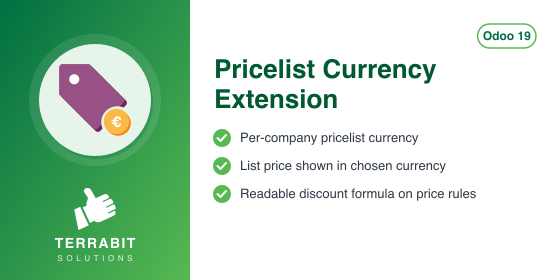
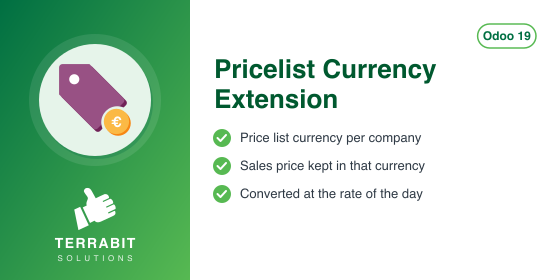
[DOC] 43 modules: Apps descriptions match the code
Apps description audit of 02.11.2026, section B (free modules): each finding
was checked in the code, then readme/DESCRIPTION.md rewritten from what the
module does on 19.0, with a Limitations section where a feature is missing or
incomplete. Summaries and banners that promised the same were aligned.
Version bump and HISTORY entry on each module. No code change.

Assisted-by: Claude Opus 5.5

Changed region(s): [[0.425, 0.6571, 0.85, 0.7143], [0.425, 0.5714, 0.7893, 0.6286], [0.425, 0.4571, 0.7589, 0.5143]]

diff --git a/deltatech_pricelist/static/description/index.html b/deltatech_pricelist/static/description/index.html
@@ -5,7 +5,7 @@
     <span class="d-inline-block rounded-4 p-2 flex-shrink-0 my-2" style="background-color:#ffffff;margin-right:24px;"><img src="icon.png" alt="Pricelist Currency Extension" style="width:80px;height:80px;border:none;"/></span>
     <div class="flex-grow-1 my-2" style="width:320px;min-width:0;margin-right:24px;">
       <h1 class="fw-bold mb-2" style="color:#ffffff;font-size:36px;line-height:1.1;letter-spacing:-0.5px;border:none;">Pricelist Currency Extension</h1>
-      <p class="mb-3" style="font-size:18px;color:#cdeccf;line-height:1.45;">Set a dedicated currency for product list prices</p>
+      <p class="mb-3" style="font-size:18px;color:#cdeccf;line-height:1.45;">Sales prices in a currency of your choice</p>
       <div>
         <span class="d-inline-block rounded-pill fw-bold me-2 mb-2" style="background-color:#ffffff;border:1px solid #ffffff;color:#006F42;padding:6px 14px;font-size:12px;">Odoo 19.0</span>
         <span class="d-inline-block rounded-pill fw-semibold me-2 mb-2" style="border:1px solid #8fd1ad;color:#ffffff;padding:6px 14px;font-size:12px;">Sales</span>
@@ -40,15 +40,39 @@
 <div class="tab-content">
 <div class="tab-pane fade show active py-2" id="tb-panel-overview" style="font-size:16px;line-height:1.65;color:#212529;font-weight:400;">
 <h2 class="fw-bold mb-3" style="border:none;border-left:4px solid #57B952;padding-left:16px;font-size:24px;letter-spacing:-0.3px;line-height:1.2;">Overview</h2>
-<p class="mb-4" style="font-size:16px;line-height:1.65;max-width:780px;">Features:  </p>
+<p class="mb-4" style="font-size:16px;line-height:1.65;max-width:780px;">Lets a company keep the <strong>Sales Price</strong> of its products in a currency other than
+its accounting currency, for example prices in EUR in a company that keeps its
+books in RON. Sales orders and pricelists convert the price to their own currency
+at the rate of the day.</p>
+<p><strong>Price List Currency on the company.</strong> Adds the <strong>Price List Currency</strong> field on
+the company form, under <strong>Currency</strong>. The currency of the product <strong>Sales Price</strong>
+becomes this currency for all the products of the company. Products shared
+between companies use the price list currency of the main company.</p>
+<p><strong>Conversion in pricelists and sales.</strong> When a pricelist or a sales order is in
+another currency, the sales price is converted from the price list currency with
+the standard Odoo currency rates. The <strong>Cost</strong> of products stays in the company
+currency.</p>
+<h2 class="fw-bold mt-4 mb-3" style="border:none;border-left:4px solid #57B952;padding-left:16px;font-size:24px;letter-spacing:-0.3px;line-height:1.2;">Configuration</h2>
+<p>Go to <em>Settings &gt; Users &amp; Companies &gt; Companies</em>, open the company and set
+<strong>Price List Currency</strong>. To keep the sales prices in the company currency, set
+it to the same currency as <strong>Currency</strong>.</p>
+<h2 class="fw-bold mt-4 mb-3" style="border:none;border-left:4px solid #57B952;padding-left:16px;font-size:24px;letter-spacing:-0.3px;line-height:1.2;">Limitations</h2>
 <ul>
-<li>pretul de lista din datele de baza ale produsului poate sa fie in alta
-  moneda</li>
-<li>list price from basic data of the product can be in another currency</li>
+<li>The setting applies to the whole company: all products use the same price list
+  currency; it cannot be chosen per product.</li>
+<li>On installation every company gets EUR as <strong>Price List Currency</strong>. In a company
+  whose currency is not EUR, the existing sales prices are then read as EUR
+  amounts until the field is changed.</li>
 </ul>
 </div>
 <div class="tab-pane fade py-2" id="tb-panel-versions" style="font-size:16px;line-height:1.65;color:#212529;font-weight:400;">
 <h2 class="fw-bold mb-3" style="border:none;border-left:4px solid #57B952;padding-left:16px;font-size:24px;letter-spacing:-0.3px;line-height:1.2;">Versions</h2>
+<h2 class="fw-bold mt-4 mb-3" style="border:none;border-left:4px solid #57B952;padding-left:16px;font-size:24px;letter-spacing:-0.3px;line-height:1.2;">19.0.1.0.3 (2026-11-03)</h2>
+<ul>
+<li>Description rewritten from the code: the price list currency is set per company (default EUR), not per product.</li>
+<li>Documented that on installation all companies get EUR as price list currency.</li>
+<li>Summary and banner corrected; removed the readable discount formula on price rules, which is not active.</li>
+</ul>
 <h2 class="fw-bold mt-4 mb-3" style="border:none;border-left:4px solid #57B952;padding-left:16px;font-size:24px;letter-spacing:-0.3px;line-height:1.2;">19.0.1.0.2 (2026-10-22)</h2>
 <ul>
 <li>Listed on Odoo Apps as <em>Pricelist Currency Extension</em> (was <em>Price List Currency Extension</em>). The technical name <code class="border rounded px-2" style="font-family:ui-monospace,SFMono-Regular,Menlo,Consolas,monospace;font-size:13px;">deltatech_pricelist</code> does not change.</li>
@@ -178,6 +202,26 @@
       </a>
     </div>
     <div class="col-md-3 col-sm-6">
+      <a href="https://apps.odoo.com/apps/modules/19.0/deltatech_import_lines_sale" target="_blank" rel="noopener"
+         class="card h-100 text-decoration-none border" style="color:#212529;">
+        <div class="card-body p-3">
+          <div class="d-flex align-items-center mb-2">
+            <span class="d-inline-block position-relative me-2 flex-shrink-0" style="width:40px;height:40px;">
+              <span class="d-inline-block text-center fw-bold rounded"
+                    style="width:40px;height:40px;line-height:40px;font-size:14px;color:#ffffff;background-color:#006F42;">IL</span>
+              <img src="https://apps.odoocdn.com/apps/assets/19.0/deltatech_import_lines_sale/icon.png" alt="" loading="lazy"
+                   class="position-absolute top-0 start-0 rounded" style="width:40px;height:40px;border:none;background-color:#ffffff;"/>
+            </span>
+            <span>
+              <span class="d-block fw-semibold" style="font-size:16px;line-height:1.25;">Import Lines in Sale Orders</span>
+              <span class="d-block" style="font-size:13px;color:#3d4752;">Sales</span>
+            </span>
+          </div>
+          <p class="mb-0" style="font-size:15px;line-height:1.45;color:#3d4752;">Load sale order lines from an XLSX, XLS, CSV or TXT file</p>
+        </div>
+      </a>
+    </div>
+    <div class="col-md-3 col-sm-6">
       <a href="https://apps.odoo.com/apps/modules/19.0/deltatech_invoice_picking" target="_blank" rel="noopener"
          class="card h-100 text-decoration-none border" style="color:#212529;">
         <div class="card-body p-3">
@@ -234,26 +278,6 @@
             </span>
           </div>
           <p class="mb-0" style="font-size:15px;line-height:1.45;color:#3d4752;">Print product labels for the products of a price change document</p>
-        </div>
-      </a>
-    </div>
-    <div class="col-md-3 col-sm-6">
-      <a href="https://apps.odoo.com/apps/modules/19.0/deltatech_pricelist_line_viewer" target="_blank" rel="noopener"
-         class="card h-100 text-decoration-none border" style="color:#212529;">
-        <div class="card-body p-3">
-          <div class="d-flex align-items-center mb-2">
-            <span class="d-inline-block position-relative me-2 flex-shrink-0" style="width:40px;height:40px;">
-              <span class="d-inline-block text-center fw-bold rounded"
-                    style="width:40px;height:40px;line-height:40px;font-size:14px;color:#ffffff;background-color:#006F42;">PL</span>
-              <img src="https://apps.odoocdn.com/apps/assets/19.0/deltatech_pricelist_line_viewer/icon.png" alt="" loading="lazy"
-                   class="position-absolute top-0 start-0 rounded" style="width:40px;height:40px;border:none;background-color:#ffffff;"/>
-            </span>
-            <span>
-              <span class="d-block fw-semibold" style="font-size:16px;line-height:1.25;">Price List Line Viewer</span>
-              <span class="d-block" style="font-size:13px;color:#3d4752;">Sales</span>
-            </span>
-          </div>
-          <p class="mb-0" style="font-size:15px;line-height:1.45;color:#3d4752;">Creates a list view for the lines of a price list for search and management</p>
         </div>
       </a>
     </div>

diff --git a/deltatech_pricelist/__manifest__.py b/deltatech_pricelist/__manifest__.py
@@ -5,8 +5,8 @@
 
 {
     "name": "Pricelist Currency Extension",
-    "summary": "Set the product list price in a currency other than the company's",
-    "version": "19.0.1.0.2",
+    "summary": "Keep product sales prices in a company-wide currency other than the accounting currency",
+    "version": "19.0.1.0.3",
     "author": "Terrabit, Dorin Hongu",
     "website": "https://www.terrabit.ro",
     "category": "Sales",

diff --git a/deltatech_pricelist/README.rst b/deltatech_pricelist/README.rst
@@ -22,11 +22,37 @@ Pricelist Currency Extension
 
 |badge1| |badge2| |badge3|
 
-Features:
+Lets a company keep the **Sales Price** of its products in a currency
+other than its accounting currency, for example prices in EUR in a
+company that keeps its books in RON. Sales orders and pricelists convert
+the price to their own currency at the rate of the day.
 
-- pretul de lista din datele de baza ale produsului poate sa fie in alta
-  moneda
-- list price from basic data of the product can be in another currency
+**Price List Currency on the company.** Adds the **Price List Currency**
+field on the company form, under **Currency**. The currency of the
+product **Sales Price** becomes this currency for all the products of
+the company. Products shared between companies use the price list
+currency of the main company.
+
+**Conversion in pricelists and sales.** When a pricelist or a sales
+order is in another currency, the sales price is converted from the
+price list currency with the standard Odoo currency rates. The **Cost**
+of products stays in the company currency.
+
+Configuration
+-------------
+
+Go to *Settings > Users & Companies > Companies*, open the company and
+set **Price List Currency**. To keep the sales prices in the company
+currency, set it to the same currency as **Currency**.
+
+Limitations
+-----------
+
+- The setting applies to the whole company: all products use the same
+  price list currency; it cannot be chosen per product.
+- On installation every company gets EUR as **Price List Currency**. In
+  a company whose currency is not EUR, the existing sales prices are
+  then read as EUR amounts until the field is changed.
 
 **Table of contents**
 
@@ -35,6 +61,16 @@ Features:
 
 Changelog
 =========
+
+19.0.1.0.3 (2026-11-03)
+-----------------------
+
+- Description rewritten from the code: the price list currency is set
+  per company (default EUR), not per product.
+- Documented that on installation all companies get EUR as price list
+  currency.
+- Summary and banner corrected; removed the readable discount formula on
+  price rules, which is not active.
 
 19.0.1.0.2 (2026-10-22)
 -----------------------

diff --git a/deltatech_pricelist/readme/DESCRIPTION.md b/deltatech_pricelist/readme/DESCRIPTION.md
@@ -1,5 +1,28 @@
-Features:  
+Lets a company keep the **Sales Price** of its products in a currency other than
+its accounting currency, for example prices in EUR in a company that keeps its
+books in RON. Sales orders and pricelists convert the price to their own currency
+at the rate of the day.
 
-- pretul de lista din datele de baza ale produsului poate sa fie in alta
-  moneda
-- list price from basic data of the product can be in another currency
+**Price List Currency on the company.** Adds the **Price List Currency** field on
+the company form, under **Currency**. The currency of the product **Sales Price**
+becomes this currency for all the products of the company. Products shared
+between companies use the price list currency of the main company.
+
+**Conversion in pricelists and sales.** When a pricelist or a sales order is in
+another currency, the sales price is converted from the price list currency with
+the standard Odoo currency rates. The **Cost** of products stays in the company
+currency.
+
+## Configuration
+
+Go to *Settings > Users & Companies > Companies*, open the company and set
+**Price List Currency**. To keep the sales prices in the company currency, set
+it to the same currency as **Currency**.
+
+## Limitations
+
+- The setting applies to the whole company: all products use the same price list
+  currency; it cannot be chosen per product.
+- On installation every company gets EUR as **Price List Currency**. In a company
+  whose currency is not EUR, the existing sales prices are then read as EUR
+  amounts until the field is changed.

diff --git a/deltatech_pricelist/readme/HISTORY.md b/deltatech_pricelist/readme/HISTORY.md
@@ -1,3 +1,9 @@
+## 19.0.1.0.3 (2026-11-03)
+
+- Description rewritten from the code: the price list currency is set per company (default EUR), not per product.
+- Documented that on installation all companies get EUR as price list currency.
+- Summary and banner corrected; removed the readable discount formula on price rules, which is not active.
+
 ## 19.0.1.0.2 (2026-10-22)
 
 - Listed on Odoo Apps as *Pricelist Currency Extension* (was *Price List Currency Extension*). The technical name `deltatech_pricelist` does not change.
